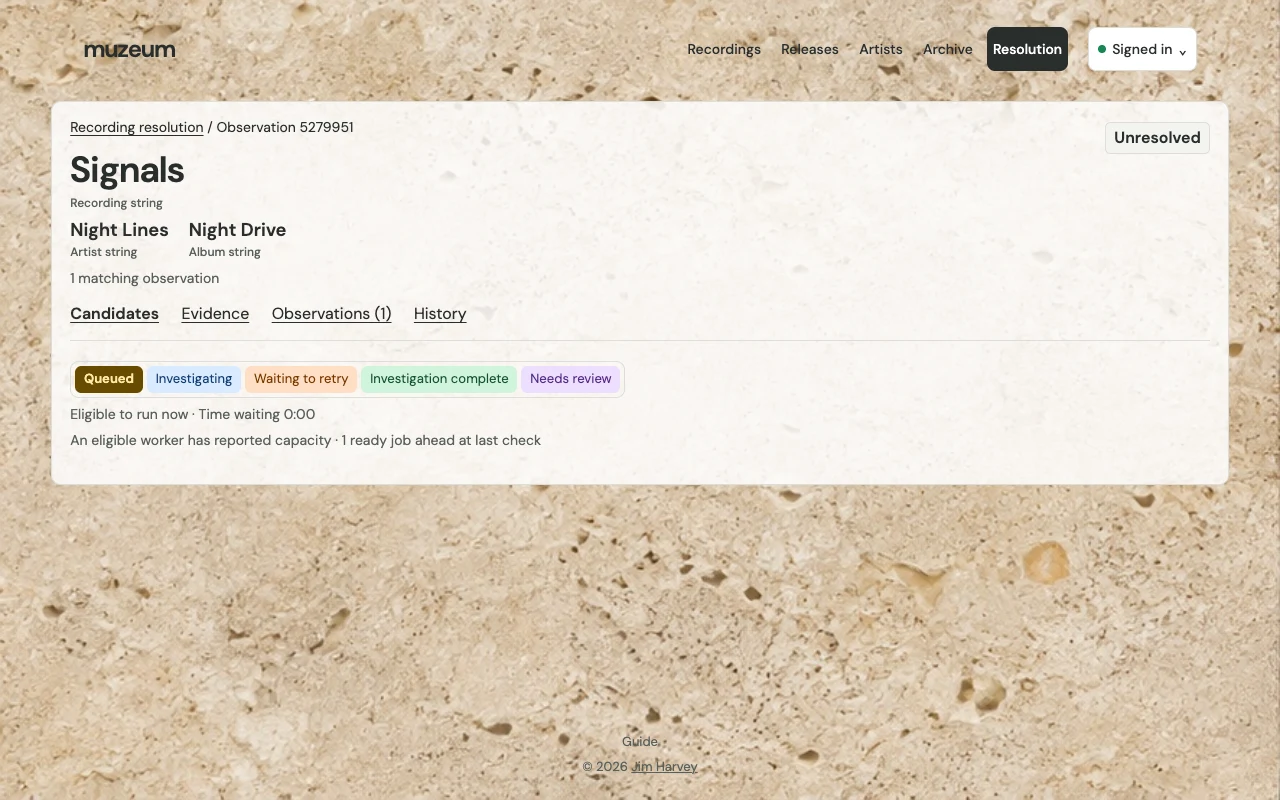
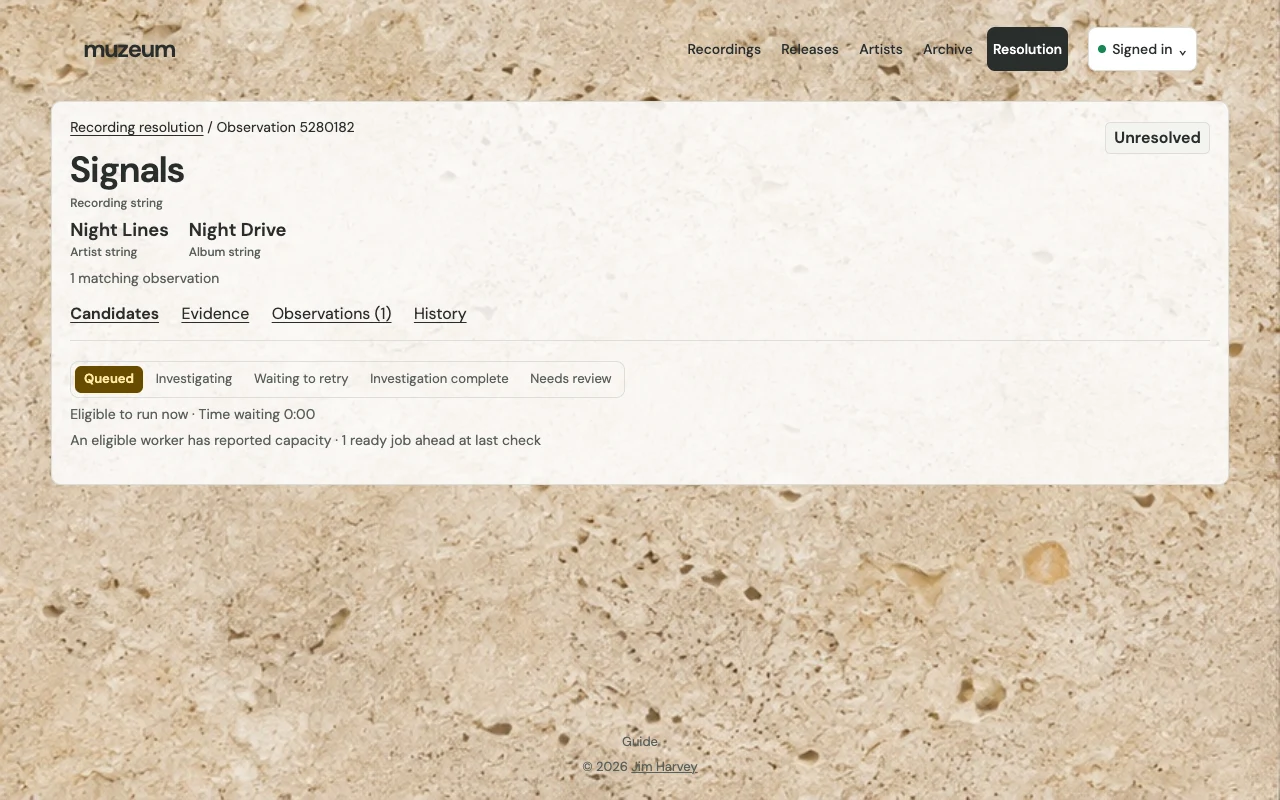
Refine investigation, edition track, and utility link visuals

Changed region(s): [[0.0938, 0.4375, 0.5, 0.5], [0.25, 0.1562, 0.2812, 0.1875]]

diff --git a/app/assets/stylesheets/application.css b/app/assets/stylesheets/application.css
@@ -16,7 +16,7 @@ html[data-appearance=dark]{color-scheme:dark;--card:#232625;--ink:#f1f2ed;--mute
   flex-wrap: wrap;
 }
 .catalog-filter:has(.clear-search) input[type="search"] { max-width: min(11rem, 38vw); }
-.clear-search { align-self: end; padding-block: .65rem; }
+.clear-search { display: inline-flex; align-items: center; min-block-size: 36px; }
 .catalog-submit { width: auto; cursor: pointer; }
 .catalog-actions { margin-top: 12px; }
 .library-card details { margin-top: 14px; }
@@ -157,6 +157,9 @@ body:has(.library-nav) main { margin-top: 14px; }
   text-shadow: none;
 }
 .entity-link:focus-visible, main a:focus-visible { outline-offset: 1px; }
+a.utility-link, a.utility-link:is(:hover, :focus-visible) { color: var(--muted); font-size: .75rem; text-decoration: none; background: transparent; border: 0; }
+a.utility-link:hover { text-decoration: underline; }
+a.utility-link:focus-visible { outline: 2px solid var(--ink); outline-offset: 3px; }
 .harvj-session > summary { width: auto; padding: 0 9px; }
 .harvj-session-panel { width: min(300px, 87vw); padding: 12px; top: calc(100% + 8px); }
 .shell-authenticated-dot { width: 8px; height: 8px; border-radius: 50%; background: #178653; flex: none; }
@@ -936,12 +939,12 @@ h3.resolution-release-title {
 .additional-edition-tracks summary .muted { margin-inline-start: .4rem; }
 .investigation-progress ul { display: flex; flex-wrap: wrap; gap: .25rem; list-style: none; width: fit-content; max-width: 100%; padding: .25rem; margin: .4rem 0; border: 1px solid var(--line); border-radius: .55rem; }
 .investigation-progress li { padding: .2rem .55rem; color: var(--muted); font-size: .82rem; }
-.investigation-progress li[aria-current="true"] { border-radius: 1rem; background: var(--ink); color: var(--card); font-weight: 700; }
+.investigation-progress li[aria-current="true"] { border-radius: .4rem; color: var(--status-fill); background: var(--status-ink); font-weight: 700; }
 .investigation-progress p { margin-block: .25rem; }
 .investigation-badge { display: inline-block; padding: .15rem .55rem; border-radius: 1rem; background: var(--control); font-weight: 700; }
 
-.library-card .edition-track-choice { display: inline-flex; margin: 0 .3rem 0 0; vertical-align: middle; }
-.edition-track-choice input[type="checkbox"] { inline-size: 1.15rem; block-size: 1.15rem; margin: .2rem; accent-color: var(--ink); }
+.library-card .edition-track-choice { display: flex; align-items: center; margin: 0; }
+.edition-track-choice input[type="checkbox"] { inline-size: 1rem; block-size: 1rem; min-height: 1rem; padding: 0; margin: 0; accent-color: var(--ink); }
 
 .release-comparison-diff { width: 100%; table-layout: fixed; border-collapse: collapse; margin-block: .75rem; }
 .release-comparison-diff :is(th, td) { padding: .4rem; text-align: start; vertical-align: top; overflow-wrap: anywhere; }
@@ -961,12 +964,10 @@ h3.resolution-release-title {
 :is(.investigation-progress, .investigation-badge) [data-state="retrying"] { --status-ink: #793800; --status-fill: #ffdec4; }
 .investigation-progress [data-state="complete"], .investigation-badge[data-state="complete"] { --status-ink: #155333; --status-fill: #d1f4dc; }
 .investigation-progress [data-state="review"], .investigation-badge[data-state="review"] { --status-ink: #552985; --status-fill: #eddefe; }
-.investigation-progress li[data-state] { color: var(--status-ink); background: var(--status-fill); border-radius: .4rem; }
-.investigation-progress li[aria-current="true"] { color: var(--status-fill); background: var(--status-ink); }
 .investigation-badge[data-state] { color: var(--status-ink); background: var(--status-fill); }
 .investigation-queue-details { font-size: .85rem; }
 .investigation-queue-details p { margin-block: .25rem; }
 .additional-track-table { min-width: 41rem; table-layout: auto; }
-.additional-track-table .additional-track-check { width: 2rem; }
+.additional-track-table tbody td.additional-track-check { vertical-align: middle; }
 .additional-track-table .additional-track-sources { display: inline-block; margin: 0 .3rem; font-size: .8rem; }
-.additional-track-table :is(th, td) { white-space: nowrap; }
+.additional-track-table :is(th, td), .additional-track-table .table-number { white-space: nowrap; }

diff --git a/spec/system/canonical_library_spec.rb b/spec/system/canonical_library_spec.rb
@@ -136,6 +136,11 @@ RSpec.describe "Canonical library resolution workflow", type: :system do
         fill_in "Search #{section}", with: "zero-play"
         click_button "Search"
         expect(page).to have_link("Clear search")
+        verify_clear_search_style
+        if section == "recordings" && [ [ 1440, "light" ], [ 390, "dark" ] ].include?([ width, theme ])
+          page.execute_script("document.activeElement.blur()") if theme == "light"
+          capture_resolution("clear-search-#{width}-#{theme}")
+        end
         find_link("Clear search").send_keys(:enter)
         expect(page).to have_no_link("Clear search")
         expect(page).to have_css(".catalog-table tbody tr", count: section == "recordings" ? 1 : 2)
@@ -143,6 +148,7 @@ RSpec.describe "Canonical library resolution workflow", type: :system do
 
       visit archive_path(q: "bad days")
       expect(page).to have_css(".play-row", count: 1, text: pending.payload.fetch("track_name"))
+      verify_clear_search_style
       capture_resolution("catalog-archive-search-#{width}-#{theme}")
       find_link("Clear search").send_keys(:enter)
       expect(page).to have_no_link("Clear search")
@@ -562,6 +568,26 @@ RSpec.describe "Canonical library resolution workflow", type: :system do
     browser = page.driver.browser
     browser.execute_cdp("Emulation.setDeviceMetricsOverride", width: 1280, height: 800, deviceScaleFactor: 1, mobile: false)
     browser.execute_cdp("Emulation.setEmulatedMedia", features: [ { name: "prefers-color-scheme", value: "light" } ])
+    [ [ 1280, 800 ], [ 390, 844 ] ].product(%w[light dark]).each do |(width, height), theme|
+      browser.execute_cdp("Emulation.setDeviceMetricsOverride", width:, height:, deviceScaleFactor: 1, mobile: width < 700)
+      browser.execute_cdp("Emulation.setEmulatedMedia", features: [ { name: "prefers-color-scheme", value: theme } ])
+      geometry = page.evaluate_script(<<~JS)
+        (() => {
+          const baseRows = document.querySelectorAll(".release-tracks:not(.additional-track-table) tbody tr")
+          const baseHeight = Math.min(...Array.from(baseRows, row => row.getBoundingClientRect().height))
+          const row = document.querySelector(".additional-track-table tbody tr")
+          const rect = row.getBoundingClientRect()
+          const checkbox = row.cells[0].querySelector("input[type=checkbox]").getBoundingClientRect()
+          return [Math.abs((checkbox.top + checkbox.height / 2) - (rect.top + rect.height / 2)), baseHeight, rect.height,
+            Array.from(row.cells).map(cell => getComputedStyle(cell).whiteSpace)]
+        })()
+      JS
+      expect(geometry[0]).to be < 1
+      expect((geometry[1] - geometry[2]).abs).to be < 2
+      expect(geometry[3]).to eq(Array.new(6, "nowrap"))
+    end
+    browser.execute_cdp("Emulation.setDeviceMetricsOverride", width: 1280, height: 800, deviceScaleFactor: 1, mobile: false)
+    browser.execute_cdp("Emulation.setEmulatedMedia", features: [ { name: "prefers-color-scheme", value: "light" } ])
     page.execute_script("window.scrollTo(0, 0)")
     capture_resolution("guilt-show-additional-tracks", full: true)
     expect(page).to have_text("0 distinct resolved observations")
@@ -726,8 +752,13 @@ RSpec.describe "Canonical library resolution workflow", type: :system do
     expect(page).to have_css("#{stream}[connected]", visible: :all)
     expect(page).to have_text("Eligible worker unavailable")
     expect(page).to have_text("A reliable position is unavailable")
-    colors = page.evaluate_script("Array.from(document.querySelectorAll('.investigation-progress li'), node => getComputedStyle(node).backgroundColor)")
-    expect(colors.uniq.size).to eq(5)
+    [ [ 1280, 800 ], [ 390, 844 ] ].product(%w[light dark]).each do |(width, height), theme|
+      browser.execute_cdp("Emulation.setDeviceMetricsOverride", width:, height:, deviceScaleFactor: 1, mobile: width < 700)
+      browser.execute_cdp("Emulation.setEmulatedMedia", features: [ { name: "prefers-color-scheme", value: theme } ])
+      verify_investigation_state_colors("queued")
+    end
+    browser.execute_cdp("Emulation.setDeviceMetricsOverride", width: 1280, height: 800, deviceScaleFactor: 1, mobile: false)
+    browser.execute_cdp("Emulation.setEmulatedMedia", features: [ { name: "prefers-color-scheme", value: "light" } ])
 
     request = CatalogImport.where(kind: RecordingResolution::Investigation::KIND).sole
     queued = SolidQueue::ReadyExecution.sole
@@ -775,8 +806,7 @@ RSpec.describe "Canonical library resolution workflow", type: :system do
     browser.execute_cdp("Emulation.setDeviceMetricsOverride", width: 390, height: 844, deviceScaleFactor: 1, mobile: true)
     browser.execute_cdp("Emulation.setEmulatedMedia", features: [ { name: "prefers-color-scheme", value: "dark" } ])
     expect(page.evaluate_script("document.documentElement.scrollWidth <= innerWidth")).to be(true)
-    dark_colors = page.evaluate_script("Array.from(document.querySelectorAll('.investigation-progress li'), node => getComputedStyle(node).backgroundColor)")
-    expect(dark_colors.uniq.size).to eq(5)
+    verify_investigation_state_colors("retrying")
     capture_resolution("investigation-retry-mobile-dark")
 
     SolidQueue::ScheduledExecution.sole.update!(scheduled_at: 10.minutes.ago)
@@ -788,6 +818,7 @@ RSpec.describe "Canonical library resolution workflow", type: :system do
     CanonicalCatalog::Processor.new(request, session_factory: ->(*) { CatalogFixtures::Session.new }).call do
       Turbo::StreamsChannel.broadcast_refresh_to(request, method: :morph, scroll: :preserve)
       expect(page).to have_css(state, exact_text: "Investigating")
+      verify_investigation_state_colors("investigating")
       page.execute_script("window.investigationConsumer = document.querySelector(arguments[0]).subscription.consumer; window.investigationConsumer.disconnect()", stream)
       expect(page).to have_no_css("#{stream}[connected]", visible: :all)
     end
@@ -1097,6 +1128,56 @@ RSpec.describe "Canonical library resolution workflow", type: :system do
         };
       })(arguments[0])
     JS
+  end
+
+  def verify_clear_search_style
+    link = find_link("Clear search")
+    submit = find_button("Search")
+    page.driver.browser.action.move_to(submit.native).perform
+    styles = -> do
+      page.evaluate_script(<<~JS, link, submit)
+        ((link, submit) => {
+          const style = getComputedStyle(link)
+          const button = getComputedStyle(submit)
+          const l = link.getBoundingClientRect()
+          const s = submit.getBoundingClientRect()
+          return {
+            muted: style.color === getComputedStyle(link.closest("form").querySelector("label")).color ||
+              style.color !== button.color,
+            smaller: parseFloat(style.fontSize) < parseFloat(button.fontSize),
+            centered: Math.abs(l.top + l.height / 2 - s.top - s.height / 2) < 2,
+            background: style.backgroundColor,
+            border: style.borderTopWidth,
+            underline: style.textDecorationLine,
+            focus: link.matches(":focus-visible") && style.outlineStyle === "solid"
+          }
+        })(arguments[0], arguments[1])
+      JS
+    end
+    expect(styles.call).to include("muted" => true, "smaller" => true, "centered" => true,
+      "background" => "rgba(0, 0, 0, 0)", "border" => "0px", "underline" => "none")
+    page.driver.browser.action.move_to(link.native).perform
+    expect(styles.call).to include("background" => "rgba(0, 0, 0, 0)", "underline" => "underline")
+    page.driver.browser.action.move_to(submit.native).perform
+    submit.send_keys(:tab)
+    expect(styles.call).to include("background" => "rgba(0, 0, 0, 0)", "focus" => true)
+  end
+
+  def verify_investigation_state_colors(active)
+    result = page.evaluate_script(<<~JS, active)
+      ((active) => {
+        const list = document.querySelector(".investigation-progress ul")
+        const states = Array.from(list.children)
+        const current = states.find(state => state.getAttribute("aria-current") === "true")
+        const transparent = states.filter(state => getComputedStyle(state).backgroundColor === "rgba(0, 0, 0, 0)")
+        const muted = getComputedStyle(document.querySelector(".resolution-review .review-observation-meta")).color
+        return states.map(state => state.dataset.state).join(",") === "queued,investigating,retrying,complete,review" &&
+          current.dataset.state === active && transparent.length === 4 && !transparent.includes(current) &&
+          transparent.every(state => getComputedStyle(state).color === muted) &&
+          !list.querySelector("a, button")
+      })(arguments[0])
+    JS
+    expect(result).to be(true)
   end
 
   def capture_resolution(name, full: false)

diff --git a/docs/design/v0.7.0/README.md b/docs/design/v0.7.0/README.md
@@ -1,9 +1,10 @@
 # Musical collections and investigation
 
-Chrome captures use disposable data and retained MusicBrainz fixtures. The investigation views use recorded Solid Queue executions. The Guilt Show views preserve the 13-track base and show the Japanese-edition track’s three resolved plays with the checkbox unchecked and checked. On mobile, the additional-track table scrolls horizontally to expose source IDs, durations, and counts.
+Chrome captures use disposable data and retained MusicBrainz fixtures. The investigation views use recorded Solid Queue executions and color only the active state. The Guilt Show views preserve the 13-track base and show the Japanese-edition track’s three resolved plays with the checkbox unchecked and checked. On mobile, the additional-track table scrolls horizontally to expose source IDs, durations, and counts.
 
 | View | Capture |
 | --- | --- |
 | Semantic investigation states and queue details | [Desktop light · Queued](investigation-queued.webp) · [Mobile dark · Waiting to retry](investigation-retry-mobile-dark.webp) · [Desktop dark · Complete](investigation-complete.webp) |
-| Guilt Show compact additional track | [Desktop · Provenance and independent play count](guilt-show-additional-tracks.webp) · [Mobile dark · Checked](guilt-show-track-preferences.webp) |
+| Guilt Show centered additional-track checkbox | [Desktop · Provenance and independent play count](guilt-show-additional-tracks.webp) · [Mobile dark · Checked](guilt-show-track-preferences.webp) |
 | Queen of the Clouds edition comparison | [Desktop light · Canadian 16-track base](queen-release-comparison-desktop.webp) · [Mobile dark · Worldwide 20-track base](queen-release-comparison-mobile-dark.webp) |
+| Clear search utility link | [Desktop light · Default](clear-search-1440-light.webp) · [Mobile dark · Keyboard focus](clear-search-390-dark.webp) |
